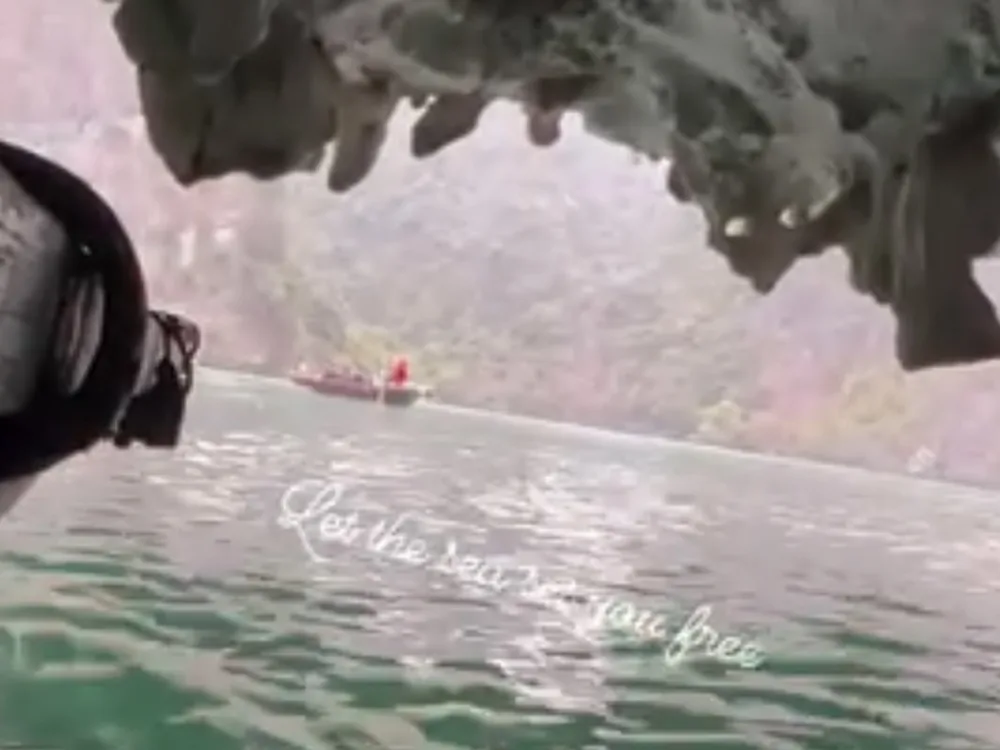
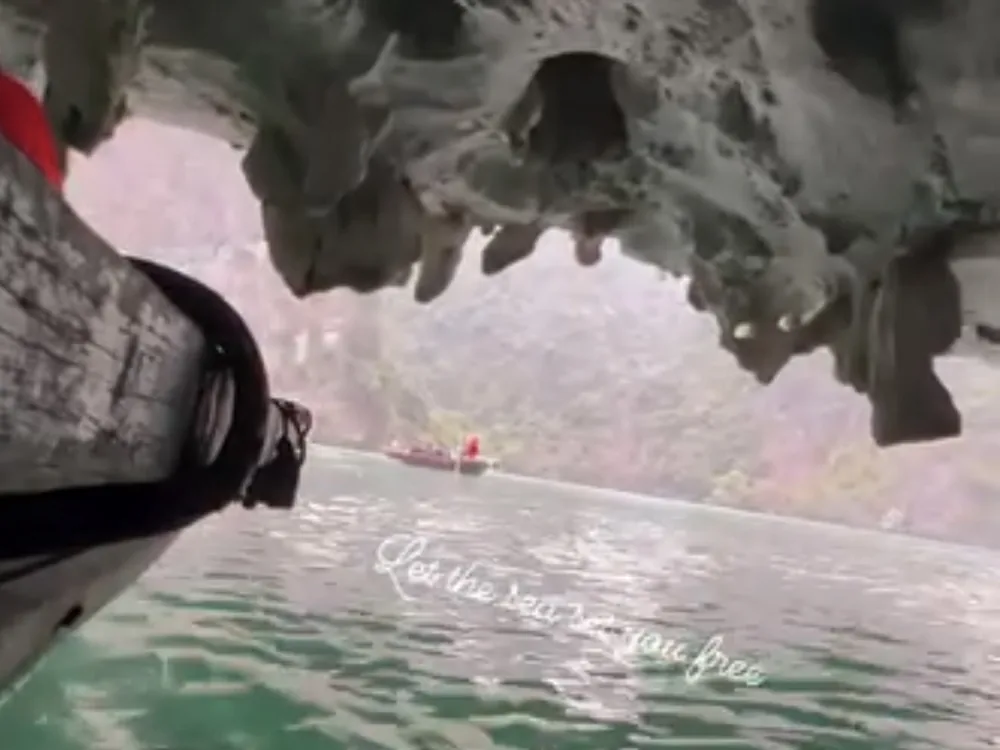
04 home: the Off duty fan 20% smaller and 6° further right; the photos cropped wider
Claude-Session: https://claude.ai/code/session_01XfFywDmuMByKX4aTc2T151

diff --git a/src/components/tiles/Tiles.tsx b/src/components/tiles/Tiles.tsx
@@ -65,7 +65,7 @@ export function PhotoStack({ bleed = false, fan = false, tints, caption = false 
           return (
             <motion.figure key={c.caption} className={c.src ? 'photo' : undefined} style={{ '--g1': tints ? tints[k % tints.length][0] : c.g1, '--g2': tints ? tints[k % tints.length][1] : c.g2, zIndex: n - pos } as React.CSSProperties}
               animate={out ? { x: leaving.dir * 420, rotate: leaving.dir * 14, opacity: 0, ...(fan ? { filter: 'grayscale(0) brightness(1)' } : {}) }
-                : fan ? { x: `${pos * -19}cqw`, y: `${pos * 14}cqh`, rotate: -12 - pos * 10, scale: 1, opacity: pos > 2 ? 0 : 1, filter: `grayscale(${pos ? 1 : 0}) brightness(${1 - pos * .16})` } /* ref 4 (measured 13 Oct): the front leans 12°, each one behind 19% of the tile further left, 14% of its height further down, 10° more, and in shade — and, with photos (22 Oct), black and white until a card comes to the front, where it turns to colour */
+                : fan ? { x: `${pos * -19}cqw`, y: `${pos * 14}cqh`, rotate: -6 - pos * 10, scale: 1, /* 22 Oct: the whole fan 6° further right (the front at 6°, not 12°), so more of each photo shows */ opacity: pos > 2 ? 0 : 1, filter: `grayscale(${pos ? 1 : 0}) brightness(${1 - pos * .16})` } /* ref 4 (measured 13 Oct): the front leans 12°, each one behind 19% of the tile further left, 14% of its height further down, 10° more, and in shade — and, with photos (22 Oct), black and white until a card comes to the front, where it turns to colour */
                 : { x: 0, y: pos * -6, rotate: (pos % 2 ? -1 : 1) * pos * 2.4, scale: 1 - pos * .045, opacity: pos > 3 ? 0 : 1 }}
               transition={{ type: 'spring', bounce: .18, duration: .5 }}
               drag={isTop && !out ? 'x' : false} dragSnapToOrigin dragElastic={.9}

diff --git a/src/lab/04-profile/profile.css b/src/lab/04-profile/profile.css
@@ -222,7 +222,7 @@
 .off4 { position: relative; container-type: size; }
 .off4 .tile-head { position: relative; z-index: 2; }
 .off4 .stack { position: absolute; inset: 0; margin: 0; }
-.off4 .stack.fan figure { inset: auto; left: 34%; top: 37%; height: 98%; aspect-ratio: 4 / 3; width: auto; border-radius: 12px; transform-origin: 50% 50%; } /* 4 : 3 (Nitish, 21 Oct), the height as set on p70; the fan unchanged */ /* 21 Oct: 15% bigger (85 → 98% of the box, square) and up 12% of where they sat (42 → 37%); the fan itself unchanged */
+.off4 .stack.fan figure { inset: auto; left: 34%; top: 37%; height: 78%; aspect-ratio: 4 / 3; width: auto; border-radius: 12px; transform-origin: 50% 50%; } /* 22 Oct: 20% smaller (98 → 78% of the box), so more of each photo shows */ /* 4 : 3 (Nitish, 21 Oct), the height as set on p70; the fan unchanged */ /* 21 Oct: 15% bigger (85 → 98% of the box, square) and up 12% of where they sat (42 → 37%); the fan itself unchanged */
 .off4 { overflow: hidden; }
 .off4 .hint { display: none; }
 .off4 .stack figcaption { display: none; } /* the caption is the box's head, not written on the photo */

diff --git a/LOG.md b/LOG.md
@@ -212,6 +212,7 @@ Route: `/lab/04-profile` (the nav sets `/:view`; the home screen and the project
 **Open:** the other views (what each tab shows); what opens on a card click; light mode or dark only; the logo at the nav's head (later, Nitish); the phone layout is a first pass (a column: icon row, picture, lines, name, stack, Off duty).
 
 **History**
+- p91 — (Nitish, 22 Oct: "some of the pictures are too zoomed in to recognise; tilt the whole stack a little more to the right — not parallel to the title; the cards 20% smaller; the summit zoomed out") The fan's cards 20% smaller (98 → 78% of the box: 212 × 168 at 1440) and the whole fan 6° further right (the front leans 6°, the ones behind 10° more each, as before), so most of the front card shows now — about 90% of its width and 80% of its height. The crops went wide again on that: the Spiti rider and the Chandratal shore whole, the summit with its mountains (the app's badge still out), the husky and the lights, the boat with its bow and the feet, the whole gang; the subject kept out of the bottom-right, which the box still clips.
 - p90 — (Nitish, 22 Oct: "the hover paragraph doesn't follow the padding below it; the zones phone is bigger than the other phones; the button-interaction clip is gone") The numbers and the paragraph now share one grid cell, so a panel is as tall as the taller of the two and its padding holds in both states (24px under either; the two panels one height). The zones diagram is a figure, so it takes the one phone size (370 × 171 at 1440, like every other). The CTA clip was lost to its crop: a replaced element keeps its own size under inset alone, so the video sat at its native 920px, clipped to a corner — the size past the slot is spelled out now (105% each way, 2.5% off each edge) and the clip shows again.
 - p89 — (Nitish, 22 Oct: eleven photos for the Off duty cards — "frame them so the most important part is anchored; the cards behind black and white, turning to colour as they come to the front; be a little creative with the names") **The photos in the fan** (public/off-duty, 1.4MB): each cropped to the cards' 4:3 with its subject near 38% across and 33% down — the fan shows only the front card's top-left (about 60% of its width, 55% of its height, leaning 12°), so a subject in the middle of a crop sat below the box's edge; two zoomed in where the source could not shift that far (the Ninh Bình boat keeps the feet and loses the karst; the gang keeps five of seven faces, at the window's edge). The app's badges and icons cropped out; the HEIC decoded with pillow-heif. **Black and white behind, colour in front**: the fan's filter carries grayscale with its shade, and the spring that moves a card to the front turns it to colour on the way. The in-card caption hidden on 04 (the box's head carries it). The names, first drafts: A breather on the Spiti road · Chandratal, sat still · Summit, first light · Tailing a bus at dusk, Shimla · Chasing light in an orchard · A husky and the hill lights · Feet up, Ninh Bình · Kung fu in a nón lá · Ducking through a karst cave · The gang, one lazy afternoon · Two bowls, one experiment. (His renamed files reached the session as "image" except Cooking, so the names are from the pictures.)
 - p88 — (Nitish, 22 Oct, a list of hygiene fixes on the case study) **Shadows**: the scrolling column's box now runs 16px out into the gaps around it, so the cards' shadows are no longer clipped (the content sits where it did). **The contact card**: the portfolio's own photo (the intro's disc) instead of the old site's; the line reads "…feel free to connect anytime." (the handles sit beside it); his written title aligned to the name — the file has the P of PRODUCT at 33.5 and the M of MOTION at 64 of its 593 width, so Signature04.tsx drives the Lottie itself and shifts the drawing left as the wipe runs (frames 0–90, back over 210–300, a smooth step), keeping the showing word's first letter on the name's left edge; pulled up by the file's empty top. **Final direction** is a white card, so the clip's phone floats on it; the zones diagram is a phone (with its edge) and the legend carries the diagram's own three colours (#fae1fa, #c0c5f5, #f5c0ef); the final ruler centred. **The knots**: the wires over the screens' edges (the ring on the edge, not under it) and as faint as his (the ink at 13%, like 224 on 245); an upright phone's node further right (86%), clear of the caption under it. **The screens**: every phone the one size again (the intro still is cover-cropped to it, as the others are) with a soft shadow behind each; the CTA clip runs 2.5% past its slot on every side, so its own hairlines (a dotted line at the top, a black line at the bottom, a border at the left) stay out of view. **The numbers** side by side again as his page has them, with its hover: the numbers give way to the paragraph each card had hidden (read off the page on hover), the title staying; on a phone, with no hover, the paragraph follows the numbers; the stat numbers a step under the heading so four fit a half-width panel.
